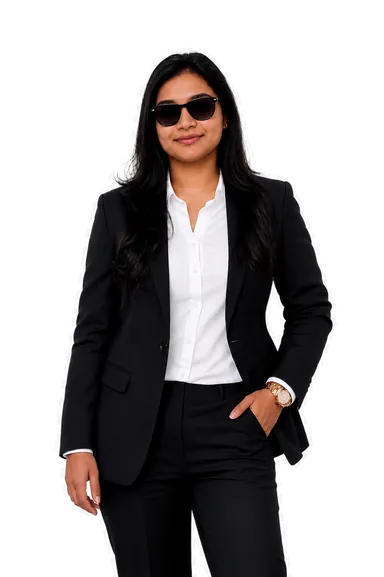
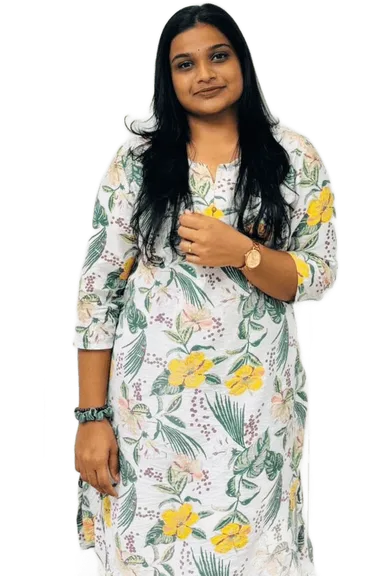
new images

diff --git a/index.html b/index.html
@@ -51,8 +51,7 @@
        exactly so the preload and the render pick the same file. -->
   <link rel="preload" as="image" type="image/webp"
         imagesrcset="assets/images/amrutha-cutout-384.webp 384w,
-                     assets/images/amrutha-cutout-640.webp 640w,
-                     assets/images/amrutha-cutout.webp 1023w"
+                     assets/images/amrutha-cutout.webp 565w"
         imagesizes="(max-width: 640px) 68vw, (max-width: 1100px) 330px, 390px"
         fetchpriority="high" />
 
@@ -349,21 +348,20 @@
                picture as PNG, so it is offered first and the PNG is only
                fetched by browsers that cannot decode WebP. The rungs match the
                real rendered widths: a 2x phone takes the 640px file (39 KB),
-               a 2x desktop the native 1023px cut. -->
+               a 2x desktop the native 565px cut. -->
           <div class="portrait portrait--cutout" data-tilt>
             <div class="portrait__ring" aria-hidden="true"></div>
             <div class="portrait__frame">
               <picture>
                 <source type="image/webp"
                         srcset="assets/images/amrutha-cutout-384.webp 384w,
-                                assets/images/amrutha-cutout-640.webp 640w,
-                                assets/images/amrutha-cutout.webp 1023w"
+                                assets/images/amrutha-cutout.webp 565w"
                         sizes="(max-width: 640px) 68vw, (max-width: 1100px) 330px, 390px" />
                 <img
                   src="assets/images/amrutha-cutout.png"
                   onerror="this.onerror=null;this.src='assets/images/profile-placeholder.svg';this.classList.add('is-placeholder')"
                   alt="Portrait of Amrutha Haridas, Software Engineer"
-                  width="1023" height="1537" loading="eager" decoding="async" fetchpriority="high"
+                  width="565" height="847" loading="eager" decoding="async" fetchpriority="high"
                   class="portrait__img" />
               </picture>
               <div class="portrait__grade" aria-hidden="true"></div>

diff --git a/assets/css/style.css b/assets/css/style.css
@@ -1393,11 +1393,10 @@ img { max-width: 100%; display: block; }
 /* Cutout variant: a circular half-length portrait — head down to the hem of
    the white shirt — rather than the whole standing figure.
 
-   That framing falls out of `cover` for free. The cutout is 1023x1537, so in a
-   square window `cover` scales to the width and shows exactly the top 66.6% of
-   the height: y 0 to 1023, and the shirt ends at y 1020. Top-aligning with
-   `object-position: 50% 0%` therefore lands the crop on the shirt hem to the
-   pixel, with the blank space above the head becoming headroom.
+   That framing falls out of `cover` for free. The cutout is 565x847 (2:3), so
+   in a square window `cover` scales to the width and shows the top 66.6% of
+   the height. Top-aligning with `object-position: 50% 0%` keeps the head in
+   frame.
 
    These must sit *after* the base rules above — the two selectors carry equal
    specificity, so whichever is written last wins. */
